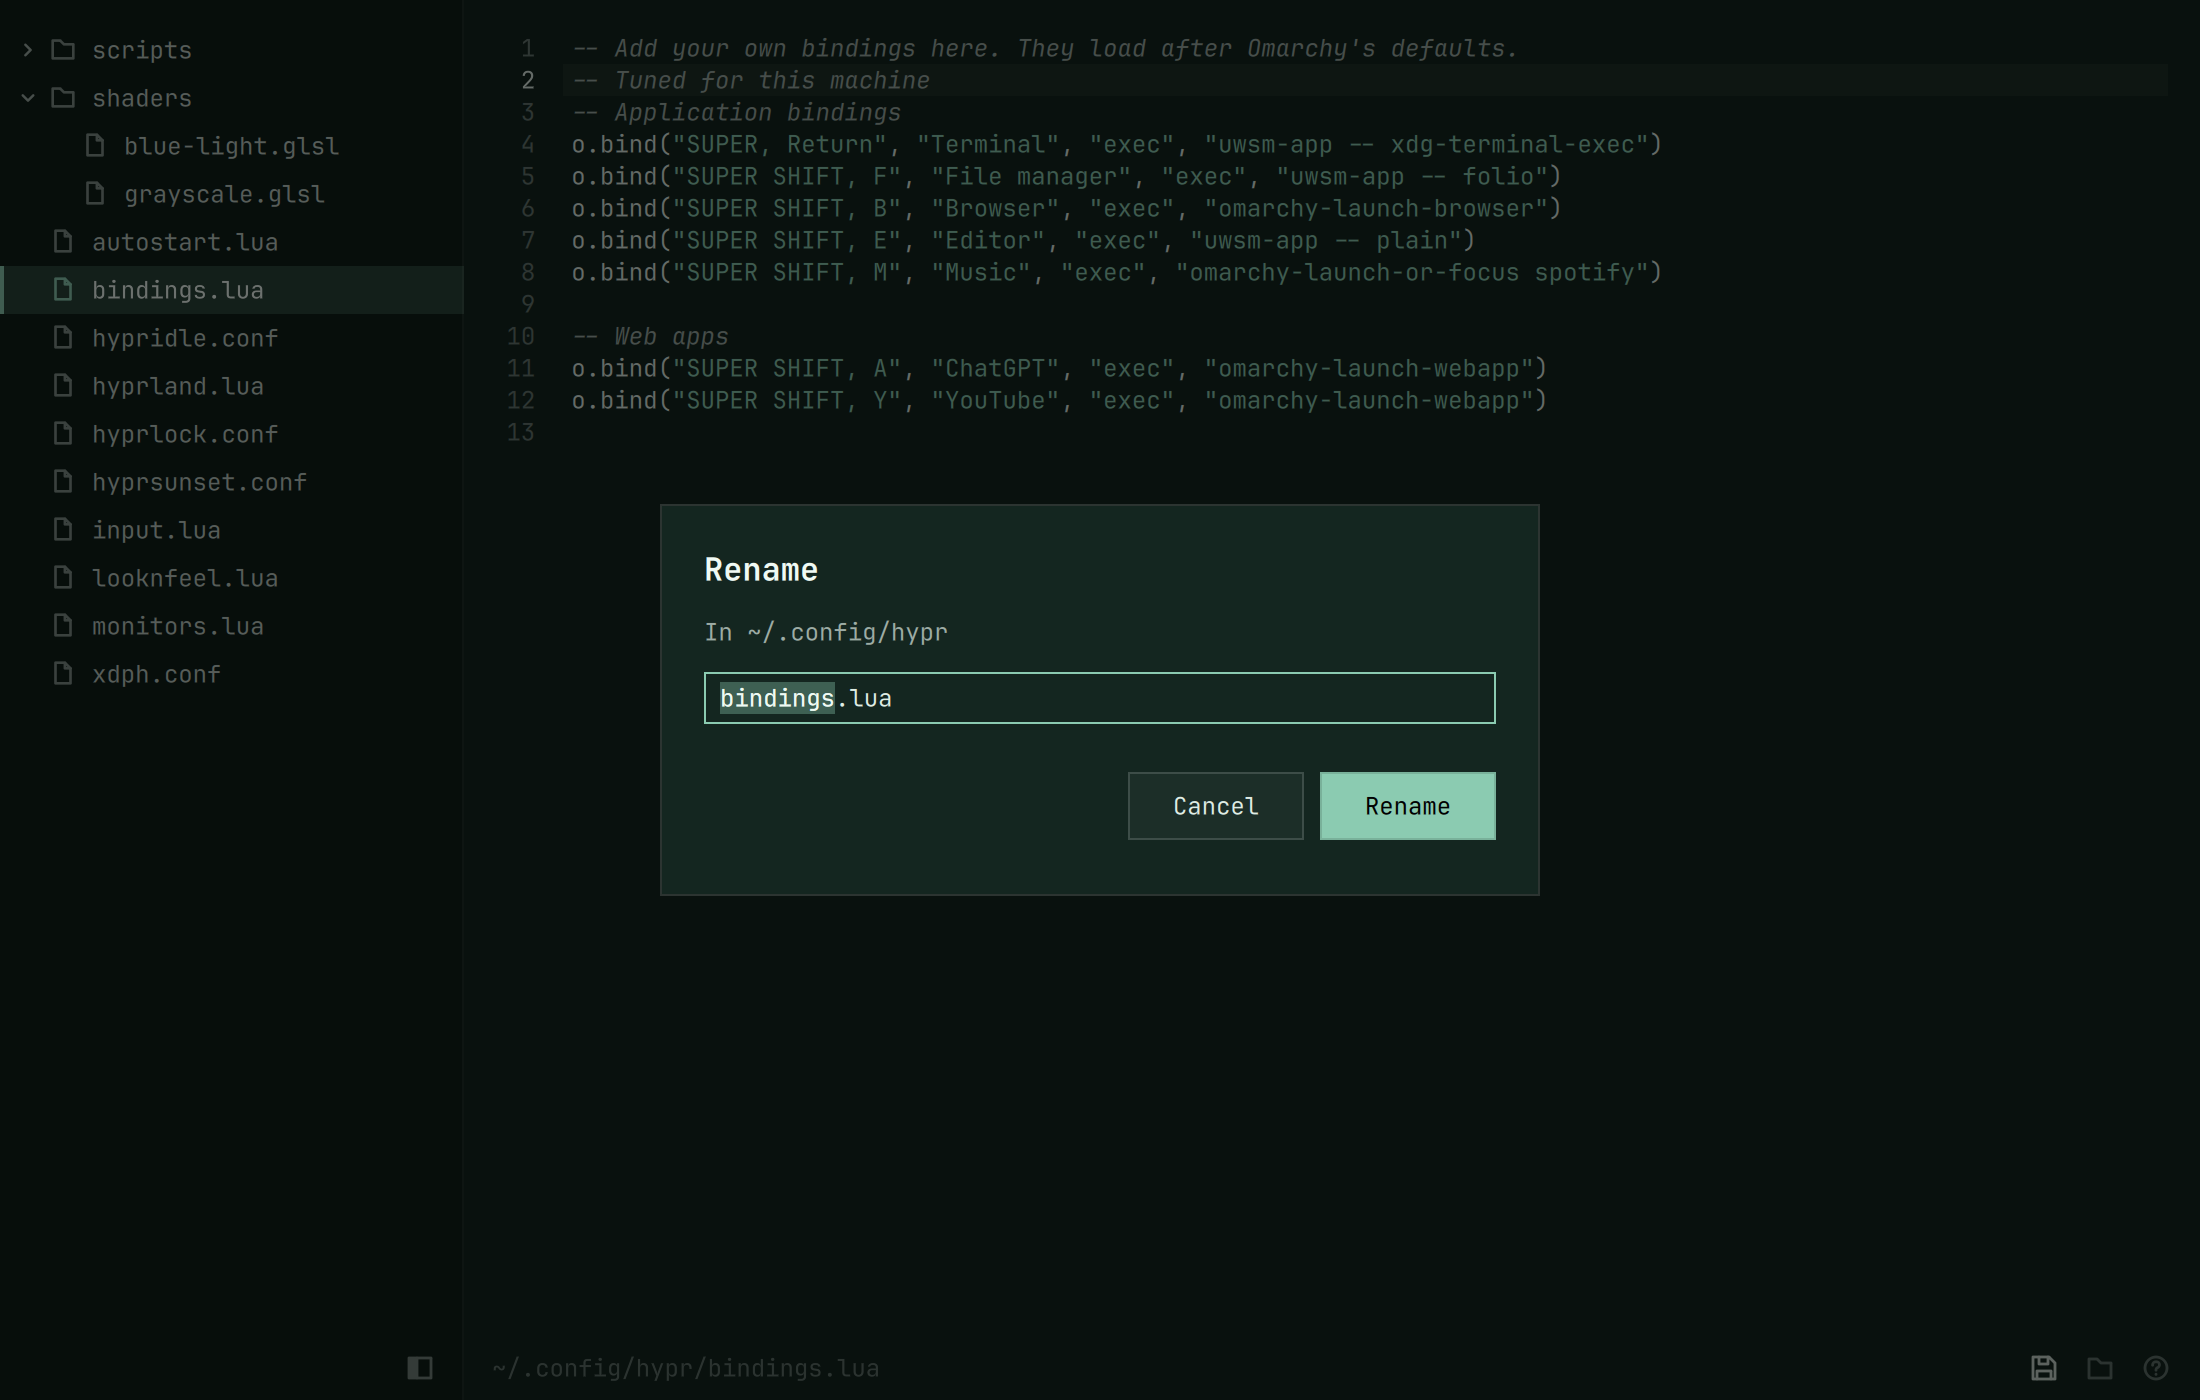
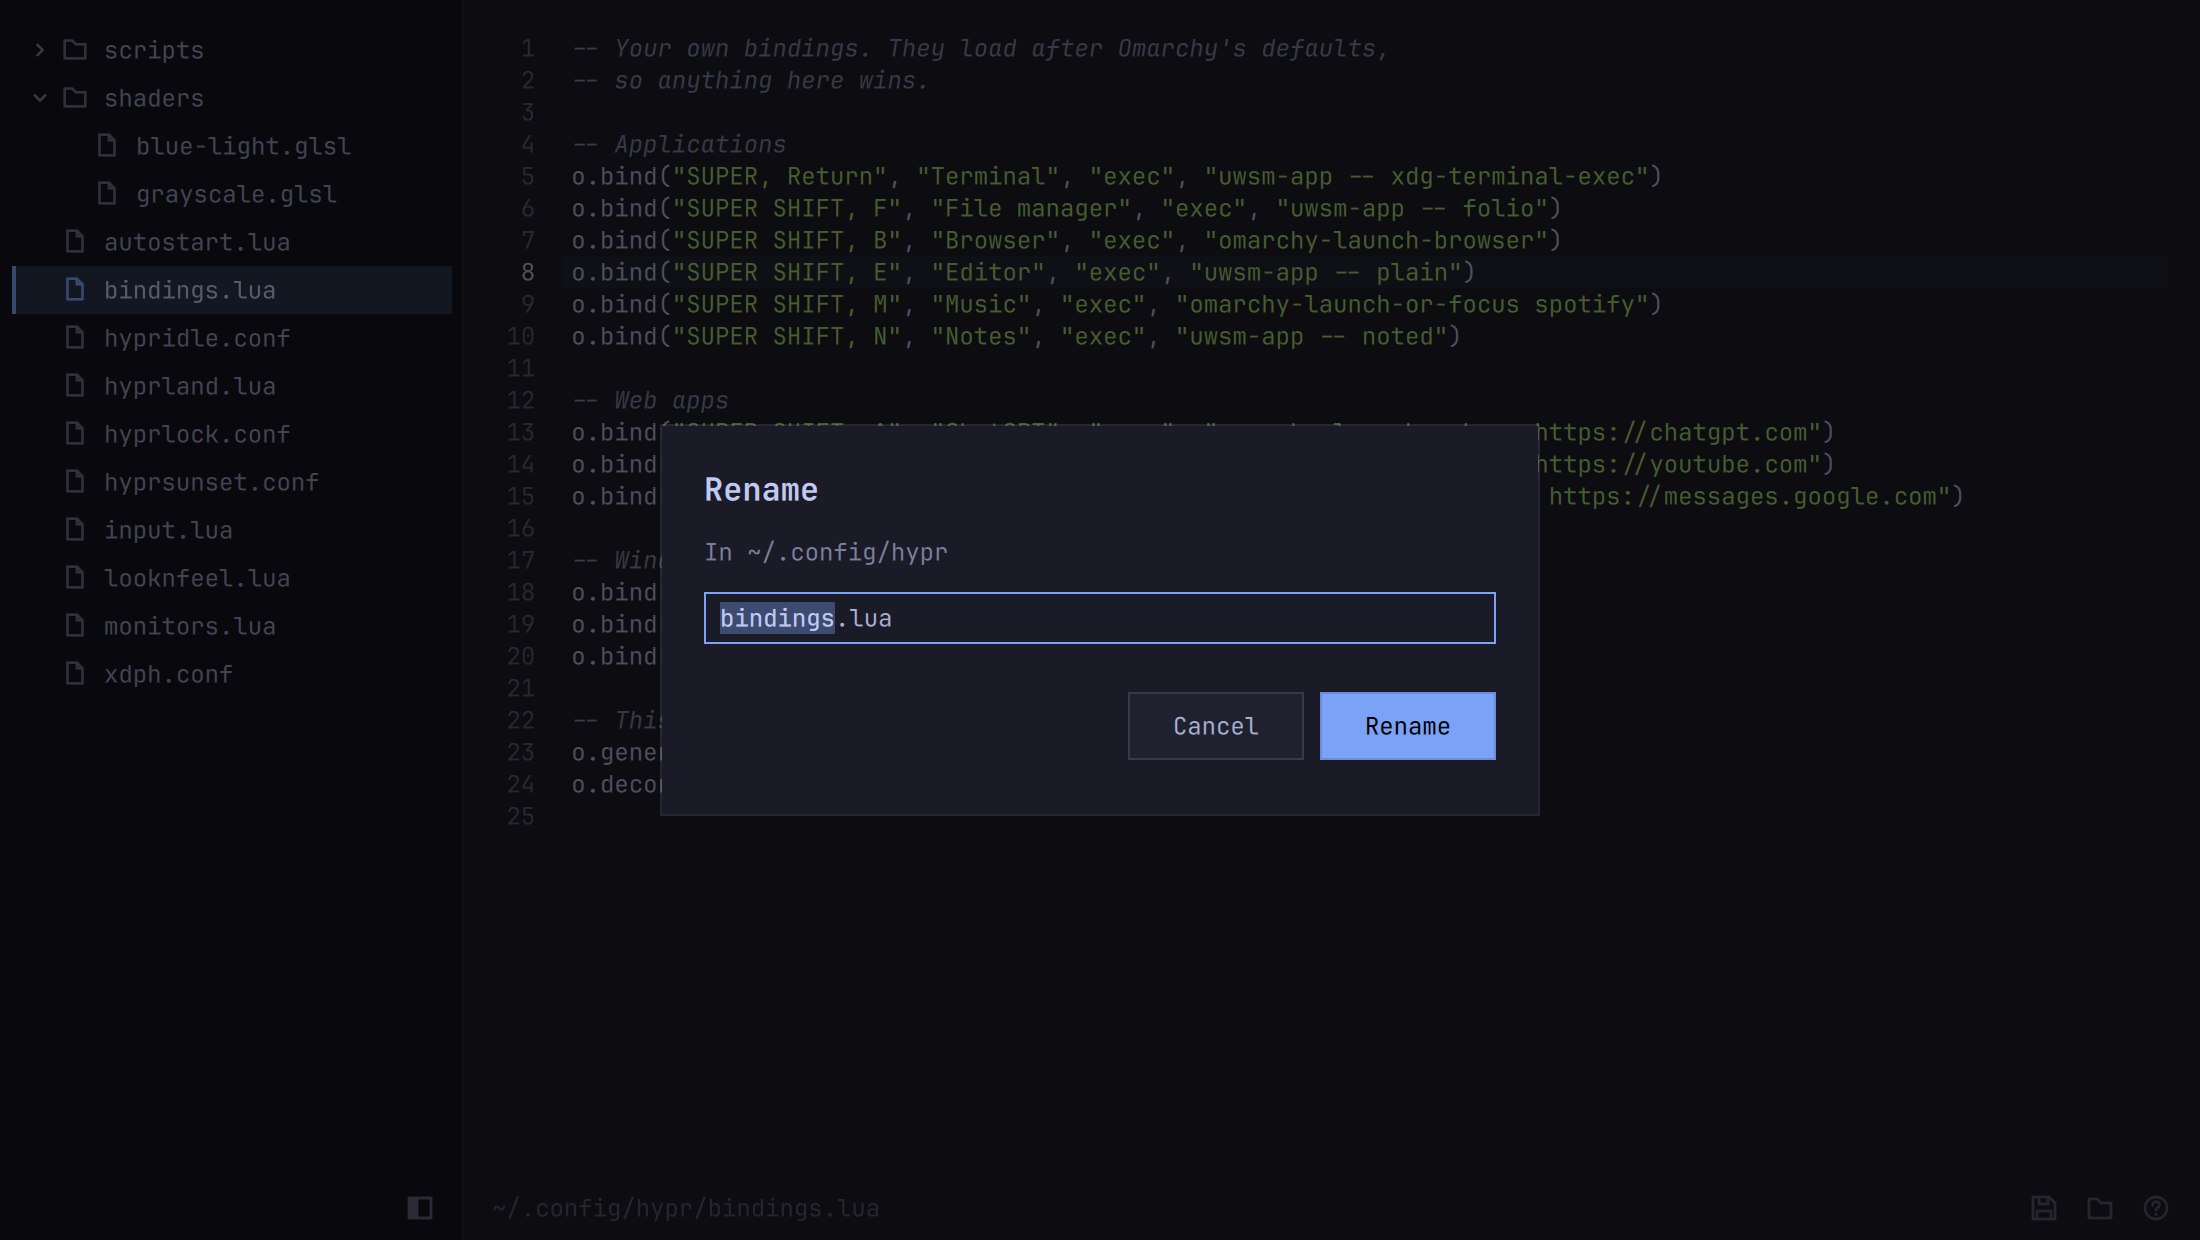
Tighten the README, with a matching set of screenshots (#31)
The README is shorter, and its screenshots are one set taken together:
the editor with its files on top, then find and replace, the files'
menu, renaming and the shortcuts in a grid. The shortcuts panel wraps
long descriptions instead of running past its edge, and Ctrl+H's two
meanings are two rows.

diff --git a/src/HelpOverlay.qml b/src/HelpOverlay.qml
@@ -35,7 +35,8 @@ Rectangle {
         ["Alt + Enter", qsTr("Rename, duplicate or delete in files")],
         ["Ctrl + Z / Ctrl + Shift + Z", qsTr("Undo / redo")],
         ["Ctrl + F", qsTr("Find")],
-        ["Ctrl + H", qsTr("Find and replace (in files: hidden files)")],
+        ["Ctrl + H", qsTr("Find and replace")],
+        ["Ctrl + H " + qsTr("in files"), qsTr("Show or hide hidden files")],
         ["Enter / Shift + Enter", qsTr("Next / previous match")],
         ["Ctrl + Enter", qsTr("Replace all")],
         ["Page Up / Page Down", qsTr("A screenful up or down")],
@@ -99,6 +100,8 @@ Rectangle {
                         Layout.row: index
                         Layout.column: 1
                         Layout.fillWidth: true
+                        // Wrapped, rather than run past the panel's edge.
+                        wrapMode: Text.Wrap
                         text: modelData[1]
                         color: theme.foreground
                     }

diff --git a/README.md b/README.md
@@ -1,81 +1,72 @@
 # Plain
 
-![Plain editing a Hyprland config](docs/screenshot.png)
+![Plain editing hypr/bindings.lua, its folder's files beside it](docs/plain.png)
 
-Plain is Omarchy's text editor for config files: the editor you don't have to learn. Ctrl+S saves, Ctrl+Z undoes, Ctrl+F finds, and the window closes like any other. It follows the Omarchy theme, font and language, colors Lua, hyprlang/INI, TOML, JSON, YAML, shell and CSS with the theme's own palette, and does nothing else: one window, one file, no tabs, plugins or projects. A sidebar of files (Ctrl+B) is there when you want to move between the configs in one folder.
+Plain is Omarchy's text editor for config files: the editor you don't have to learn. Ctrl+S saves, Ctrl+Z undoes, Ctrl+F finds, and the window closes like any other. It follows Omarchy's theme, font and language, colors Lua, hyprlang/INI, TOML, JSON, YAML, shell and CSS in the theme's palette, and keeps to one window and one file, with the folder's files beside it when you want them.
 
-It's careful with files, because a config file is read by a program that won't forgive a surprise:
+<table>
+  <tr>
+    <td><img src="docs/replace.png" alt="Find and replace"></td>
+    <td><img src="docs/menu.png" alt="Rename, Duplicate and Delete for a file"></td>
+  </tr>
+  <tr>
+    <td><img src="docs/rename.png" alt="Renaming a file"></td>
+    <td><img src="docs/shortcuts.png" alt="Every shortcut, on F1"></td>
+  </tr>
+</table>
 
-- **Saves atomically**, through a temporary file and a rename, so a crash mid-save leaves the old file whole.
-- **Follows symlinks** and saves to their target, so linked configs stay linked. If a link starts pointing somewhere else while the file is open, Plain asks before saving.
-- **Keeps what the file had**: LF or CRLF line endings, a UTF-8 byte-order mark, and exactly the final newline you see. Opening and saving without edits gives back the same bytes.
-- **Never saves over a version you haven't seen.** Right before every save it checks the file on disk; if something else changed or deleted it, Plain asks.
-- **Asks before writing in place** when replacing the file would lose something: other hard links, another owner, special permission bits, extended attributes, or a folder you can't write to.
-- **Opens only text.** A file that isn't valid UTF-8 isn't opened at all, so it can't be saved back damaged.
+## Careful with files
 
-Files that belong to root are opened read-only, with the way to edit them: `sudoedit`, which Plain works with as `$SUDO_EDITOR`.
+A config file is read by a program that won't forgive a surprise, so Plain:
+
+- **Saves atomically**, through a temporary file and a rename: a crash mid-save leaves the old file whole.
+- **Never saves over a version you haven't seen.** It checks the file right before every save and asks if something else changed or deleted it.
+- **Follows symlinks**, so linked configs stay linked, and asks if a link starts pointing somewhere else.
+- **Gives back the same bytes** when you save without edits: line endings, byte-order mark and final newline as they were. The one exception, a file that mixes line endings, is pointed out when it opens.
+- **Asks before writing in place** when replacing the file would lose hard links, its owner, special permission bits or extended attributes.
+- **Opens only UTF-8 text**, so nothing is saved back damaged. Files that belong to root open read-only; edit them with `sudoedit`.
 
 ## Use
 
 ```sh
 plain ~/.config/hypr/bindings.lua
-plain +42 /etc/pacman.conf     # open at line 42
-plain ~/.config/hypr            # a folder opens with its files beside the text
-EDITOR=plain git commit         # waits until the window closes
+plain +42 /etc/pacman.conf     # at line 42
+plain ~/.config/hypr           # a folder, with its files beside the text
+EDITOR=plain git commit        # waits until the window closes
 ```
 
-Plain runs in the foreground and exits when its window closes, so it works as `$EDITOR`, `$VISUAL` and `$SUDO_EDITOR`. It opens one file at a time.
+Plain runs in the foreground until its window closes, so it works as `$EDITOR`, `$VISUAL` and `$SUDO_EDITOR`.
 
 ## Files
 
-![Plain opened on ~/.config/hypr, its files beside bindings.lua](docs/sidebar.png)
+Ctrl+B shows the files of the open file's folder, with the keys in them, and hides them again; opening Plain on a folder starts with them shown. Ctrl+Tab moves between the files and the text.
 
-The sidebar shows a folder's files: the folder Plain was opened on, or the open file's. It's hidden until Ctrl+B or the icon at the left of the footer shows it, and opening Plain on a folder starts with it shown. Folders come first, and the list follows the disk as files come and go. Hidden files stay out of the way until Ctrl+H in the files shows them, and show from the start when the folder is inside a hidden one, like `~/.config/hypr`.
-
-- **Click a file, or Enter on it**, to open it. Unsaved changes are asked about first, as with Ctrl+O.
-- **Keys**: Ctrl+B shows the files with the keys on the open file, and hides them again; Ctrl+Tab hops between files and text, to keep the files open while editing. In the files, Up/Down, Page Up/Down, Home and End move; Right and Left open and close folders; typing a name's first letters jumps to it; Enter opens a file and goes to the text; Escape goes back to the text.
-- **Drag a file or folder onto a folder** to move it there. The open file follows, edits and all.
-- **Ctrl+N** names a new file where the sidebar's keys are and opens it; **Ctrl+Shift+N** names a new folder. Without the sidebar, Ctrl+N opens a new window.
-- **Delete** asks, then moves the file or folder to the trash, so it can be had back.
-- **F2** renames; the open file follows, edits and all.
-- **Right-click, or Alt+Enter**, for Rename, Duplicate and Delete. Duplicate puts "name copy.ext" beside it, a folder with everything in it.
-
-![The menu for a file: Rename, Duplicate, Delete](docs/sidebar-menu.png)
-
-![Renaming bindings.lua, with the name before the extension picked](docs/rename.png)
+In the files, Enter opens a file, asking first about unsaved changes. F2 renames, Delete moves to the trash after asking, and right-click or Alt+Enter offers Rename, Duplicate and Delete. Ctrl+N and Ctrl+Shift+N make a new file or folder, and dragging onto a folder moves there; the open file follows a rename or move, edits and all. Ctrl+H shows hidden files, which show from the start inside a hidden folder like `~/.config/hypr`.
 
 ## Keyboard
 
 | Key | Action |
 | --- | --- |
-| Ctrl+S | Save |
-| Ctrl+Shift+S | Save as |
-| Ctrl+O | Open |
-| Ctrl+N | New file (with files shown) or new window |
-| Ctrl+Shift+N | New folder |
-| Ctrl+B | Show files, with the keys in them, or hide them |
-| Ctrl+Tab | Between the files and the text, while the files show |
-| Delete | Move the picked file to the trash, after asking |
-| F2 | Rename the picked file |
-| Alt+Enter | Rename, duplicate or delete the picked file |
+| Ctrl+S / Ctrl+Shift+S | Save / save as |
+| Ctrl+O / Ctrl+W | Open / close |
+| Ctrl+N | New file in the files, or a new window without them |
 | Ctrl+Z / Ctrl+Shift+Z | Undo / redo |
-| Ctrl+F | Find, or close it |
-| Ctrl+H | Find and replace, or close it; in the files, show or hide hidden files |
-| Enter / Shift+Enter | Next / previous match |
-| Page Up / Page Down | A screenful up or down (with Shift, selecting) |
+| Ctrl+F / Ctrl+H | Find / find and replace, again to close |
+| Enter / Shift+Enter, F3 / Shift+F3 | Next / previous match |
 | Ctrl+G | Go to line |
+| Page Up / Page Down | A screenful, with Shift selecting |
 | Ctrl+/ | Comment or uncomment |
 | Tab / Shift+Tab | Indent / outdent |
 | Alt+Z | Word wrap |
 | Ctrl+Plus / Ctrl+Minus / Ctrl+0 | Text size |
-| Ctrl+W | Close |
+| Ctrl+B / Ctrl+Tab | Show or hide the files / move between files and text |
 | F1 | Every shortcut |
 
-Text starts at the desktop's text size, the one Omarchy's display panel sets (12px, the terminals' 9pt), and follows it when it changes. Ctrl+Plus and Ctrl+Minus adjust from there, and that adjustment and word wrap (on to start with; Alt+Z turns it off) are remembered in `~/.config/plain/settings.conf`. Nothing else is a setting.
+Text starts at the desktop's text size and follows it. The size you set with Ctrl+Plus and Ctrl+Minus and word wrap, on to start with, are remembered in `~/.config/plain/settings.conf`. Nothing else is a setting.
 
 ## Install
 
-Omarchy installs Plain as the `plain` package from its package repository (`omarchy-pkg-add plain`).
+Omarchy installs Plain as the `plain` package: `omarchy-pkg-add plain`.
 
 ## Build
 
@@ -83,7 +74,7 @@ Plain is C++ and Qt Quick, built with CMake.
 
 ```sh
 bin/build      # build/plain
-bin/test       # the test suite, offscreen
+bin/test       # the tests, offscreen
 ```
 
 ## License
